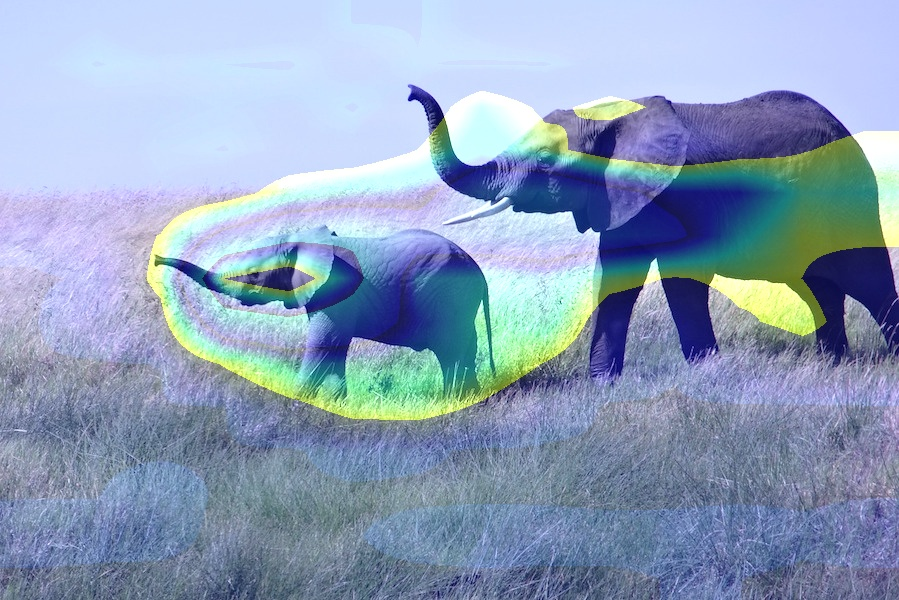
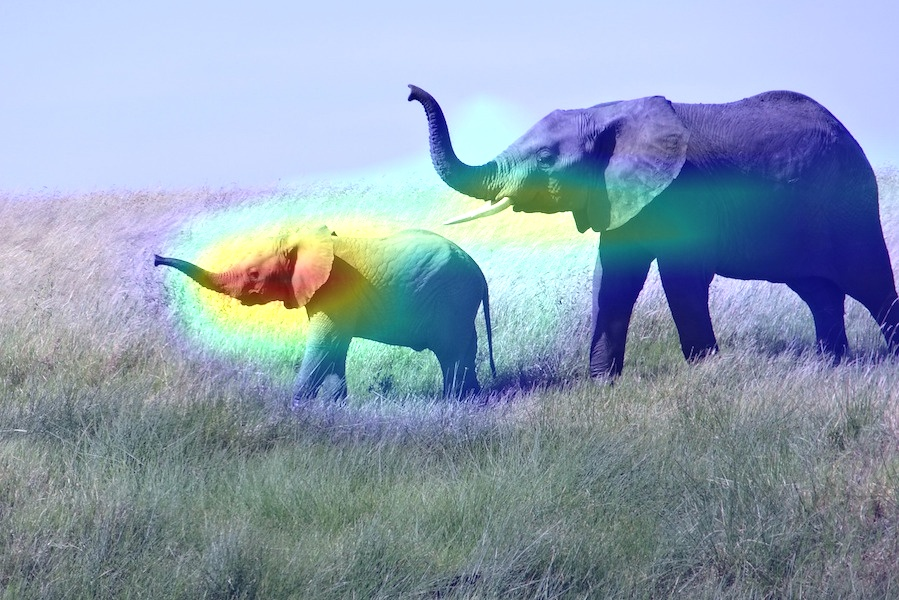
update

diff --git a/DeepLearningWithPython/5.4.py b/DeepLearningWithPython/5.4.py
@@ -70,84 +70,18 @@ model.summary()
 for layer_name in ['block1_conv1','block2_conv1']:
     results = myKeras.plot_cnn2D_filter(model, layer_name, filter_index=None, stepscount=40)
 
+
+
 #%%
-from keras import backend as K
 from keras.applications.vgg16 import VGG16
-K.clear_session()
 # Note that we are including the densely-connected classifier on top;
 # all previous times, we were discarding it.
 model = VGG16(weights='imagenet')
 model.summary()
 
-#%%
-from keras.applications.vgg16 import decode_predictions
-
 # The local path to our target image
 img_path = 'creative_commons_elephant.jpg'
 last_conv_layer_name = "block5_conv3"
-
-from keras.preprocessing import image
-# `img` is a PIL image of size 224x224
-img = image.load_img(img_path, target_size=(224, 224))
-x = image.img_to_array(img) # shape (224, 224, 3)
-x = np.expand_dims(x, axis=0) # shape (1, 224, 224, 3)
-# 对批量进行预处理（按通道进行颜色标准化）
-from keras.applications.imagenet_utils import preprocess_input
-x = preprocess_input(x)
-
-#%%
-preds = model.predict(x)
-print('Predicted:', decode_predictions(preds, top=3)[0]) # 预测向量解码为人类可读的格式
-
-#%%
-# 预测向量中的“非洲象”元素
-african_elephant_output = model.output[:, np.argmax(preds[0])]
-# block5_conv3 层的输出特征图，它是 VGG16 的最后一个卷积层
-last_conv_layer = model.get_layer(last_conv_layer_name)
-# “非洲象”类别相对于 block5_conv3 输出特征图的梯度
-grads = K.gradients(african_elephant_output, last_conv_layer.output)[0]
-# 形状为 (512,) 的向量，每个元素是特定特征图通道的梯度平均大小
-pooled_grads = K.mean(grads, axis=(0, 1, 2))
-# 访问刚刚定义的量：对于给定的样本图像，pooled_grads 和 block5_conv3 层的输出特征图
-iterate = K.function([model.input], [pooled_grads, last_conv_layer.output[0]])
-# 对于两个大象的样本图像，这两个量都是 Numpy 数组
-pooled_grads_value, conv_layer_output_value = iterate([x])
-# 将特征图数组的每个通道乘以“这个通道对‘大象’类别的重要程度”.
-for i in range(conv_layer_output_value.shape[-1]):
-    conv_layer_output_value[:, :, i] *= pooled_grads_value[i]
-# 得到的特征图的逐通道平均值即为类激活的热力图
-heatmap = np.mean(conv_layer_output_value, axis=-1)
-
-#%%
-heatmap = np.maximum(heatmap, 0)
-heatmap /= np.max(heatmap)
-plt.matshow(heatmap)
-plt.show()
-
-#%%
-# 用 OpenCV 来生成一张图像
-import cv2
-# 用 cv2 加载原始图像
-img = cv2.imread(img_path)
-# 将热力图的大小调整为与原始图像相同
-heatmap = cv2.resize(heatmap, (img.shape[1], img.shape[0]))
-# 将热力图转换为 RGB 格式
-heatmap = np.uint8(255 * heatmap)
-# 将热力图应用于原始图像
-heatmap = cv2.applyColorMap(heatmap, cv2.COLORMAP_JET)
-# 这里的 0.4 是热力图强度因子
-superimposed_img = heatmap * 0.4 + img
-
-myplt.set_style("defaults")
-plt.figure()
-plt.imshow(superimposed_img/255)
-plt.grid(False)
-plt.show()
-
-# 将图像保存到硬盘
-cv2.imwrite('elephant_cam.jpg', superimposed_img)
-
-
-
+myKeras.plot_class_activation_map(model,img_path,last_conv_layer_name,writefile="elephant_cam.jpg")
 
 
